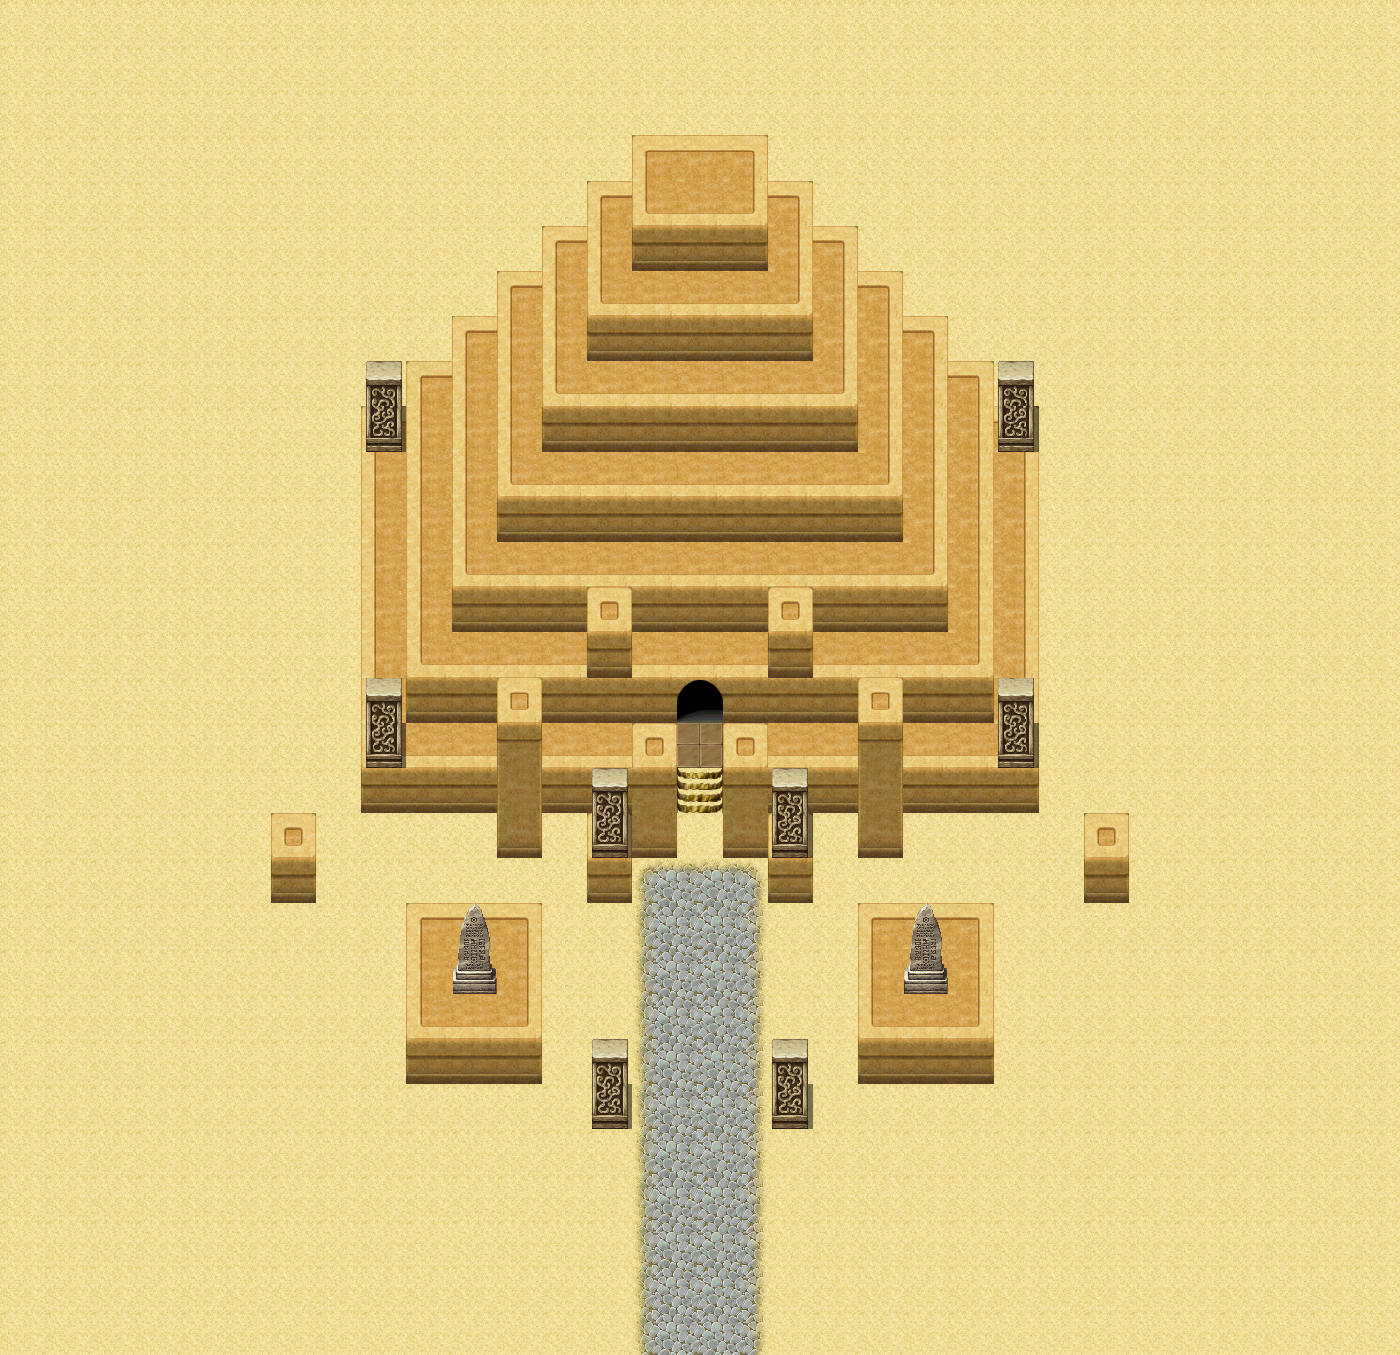
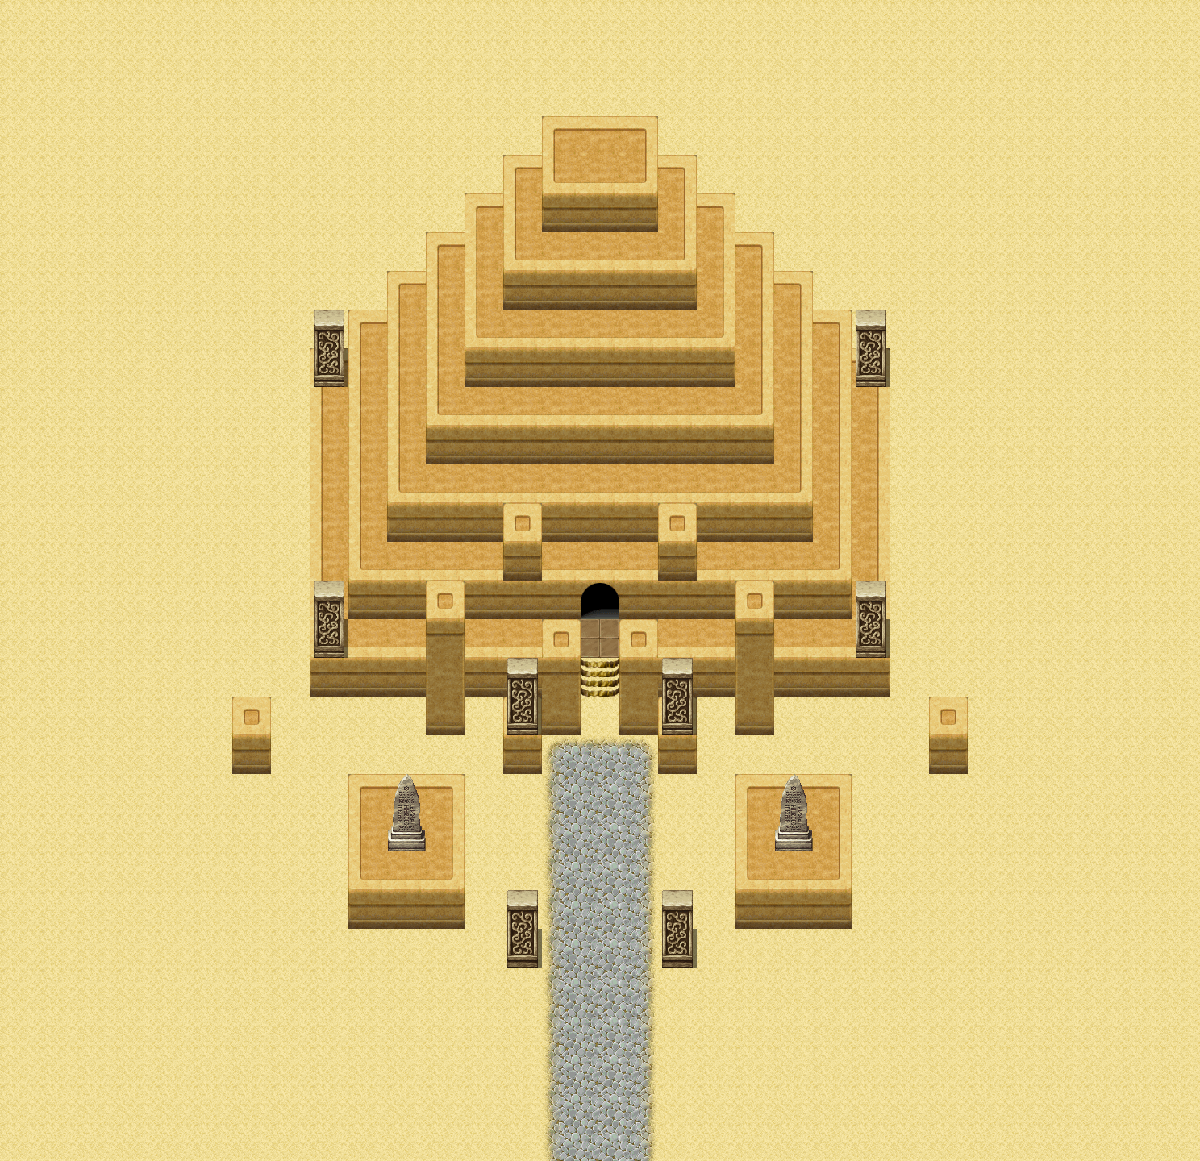
优化地图图片体积：世界地图降至 1400px、地点图降至 1200px（合计 5.83MB→4.97MB）

diff --git a/tools/build-maps.py b/tools/build-maps.py
@@ -43,9 +43,13 @@ DEFAULT_GAME = r"D:\steam\steamapps\common\暗渊崛起"
 # 脚本位于 <repo>/tools/，所以仓库根是上一级
 REPO = os.path.dirname(os.path.dirname(os.path.abspath(__file__)))
 
-TILE = 48          # RPG Maker MZ 的图块像素
-WORLD_MAX_W = 1800  # 世界地图压缩后最大宽度
-MAP_MAX_W = 1400    # 地点地图压缩后最大宽度
+TILE = 48           # RPG Maker MZ 的图块像素
+# 压缩档位说明：
+#   正文栏宽上限约 800px（主题的 content-width），所以 1400/1200 仍有 1.5~1.75 倍冗余，
+#   高分屏也够清晰，同时把最大的世界地图从约 720KB 压到约 450KB。
+#   颜色统一保留 256 色：源图真实颜色数在 2000~10000 之间，进一步降色会出色带而只省两成体积。
+WORLD_MAX_W = 1400   # 世界地图压缩后最大宽度
+MAP_MAX_W = 1200     # 地点地图压缩后最大宽度
 
 
 def log(msg=""):

diff --git a/map/106.md b/map/106.md
@@ -5,8 +5,8 @@ permalink: /map/106/
 map_id: 106
 map_title: 魔王遗迹
 map_src: /assets/maps/106.png
-map_w: 1400
-map_h: 1618
+map_w: 1200
+map_h: 1387
 map_events: 55
 map_exits: 4
 ---

diff --git a/map/84.md b/map/84.md
@@ -5,8 +5,8 @@ permalink: /map/84/
 map_id: 84
 map_title: 雪之森入口
 map_src: /assets/maps/84.png
-map_w: 1400
-map_h: 1400
+map_w: 1200
+map_h: 1200
 map_events: 5
 map_exits: 1
 ---

diff --git a/map/116.md b/map/116.md
@@ -5,8 +5,8 @@ permalink: /map/116/
 map_id: 116
 map_title: 金字塔
 map_src: /assets/maps/116.png
-map_w: 1400
-map_h: 1355
+map_w: 1200
+map_h: 1161
 map_events: 10
 map_exits: 1
 ---

diff --git a/map/142.md b/map/142.md
@@ -5,8 +5,8 @@ permalink: /map/142/
 map_id: 142
 map_title: 龙虎门
 map_src: /assets/maps/142.png
-map_w: 1400
-map_h: 920
+map_w: 1200
+map_h: 789
 map_events: 107
 map_exits: 4
 ---

diff --git a/map/31.md b/map/31.md
@@ -5,8 +5,8 @@ permalink: /map/31/
 map_id: 31
 map_title: 迷幻深林
 map_src: /assets/maps/31.png
-map_w: 1400
-map_h: 622
+map_w: 1200
+map_h: 533
 map_events: 12
 map_exits: 1
 ---

diff --git a/map/27.md b/map/27.md
@@ -5,8 +5,8 @@ permalink: /map/27/
 map_id: 27
 map_title: 闲鱼村
 map_src: /assets/maps/27.png
-map_w: 1248
-map_h: 1248
+map_w: 1200
+map_h: 1200
 map_events: 19
 map_exits: 1
 ---

diff --git a/map/71.md b/map/71.md
@@ -5,8 +5,8 @@ permalink: /map/71/
 map_id: 71
 map_title: 黄金城
 map_src: /assets/maps/71.png
-map_w: 1400
-map_h: 1400
+map_w: 1200
+map_h: 1200
 map_events: 20
 map_exits: 4
 ---

diff --git a/map/14.md b/map/14.md
@@ -5,8 +5,8 @@ permalink: /map/14/
 map_id: 14
 map_title: 养殖场
 map_src: /assets/maps/14.png
-map_w: 1400
-map_h: 447
+map_w: 1200
+map_h: 383
 map_events: 27
 map_exits: 1
 ---

diff --git a/map/33.md b/map/33.md
@@ -5,8 +5,8 @@ permalink: /map/33/
 map_id: 33
 map_title: 黑风寨
 map_src: /assets/maps/33.png
-map_w: 1400
-map_h: 467
+map_w: 1200
+map_h: 400
 map_events: 25
 map_exits: 1
 ---

diff --git a/map/36.md b/map/36.md
@@ -5,8 +5,8 @@ permalink: /map/36/
 map_id: 36
 map_title: 银滩村
 map_src: /assets/maps/36.png
-map_w: 1400
-map_h: 910
+map_w: 1200
+map_h: 780
 map_events: 24
 map_exits: 2
 ---

diff --git a/map/79.md b/map/79.md
@@ -5,8 +5,8 @@ permalink: /map/79/
 map_id: 79
 map_title: 雪城
 map_src: /assets/maps/79.png
-map_w: 1400
-map_h: 1172
+map_w: 1200
+map_h: 1005
 map_events: 26
 map_exits: 1
 ---
